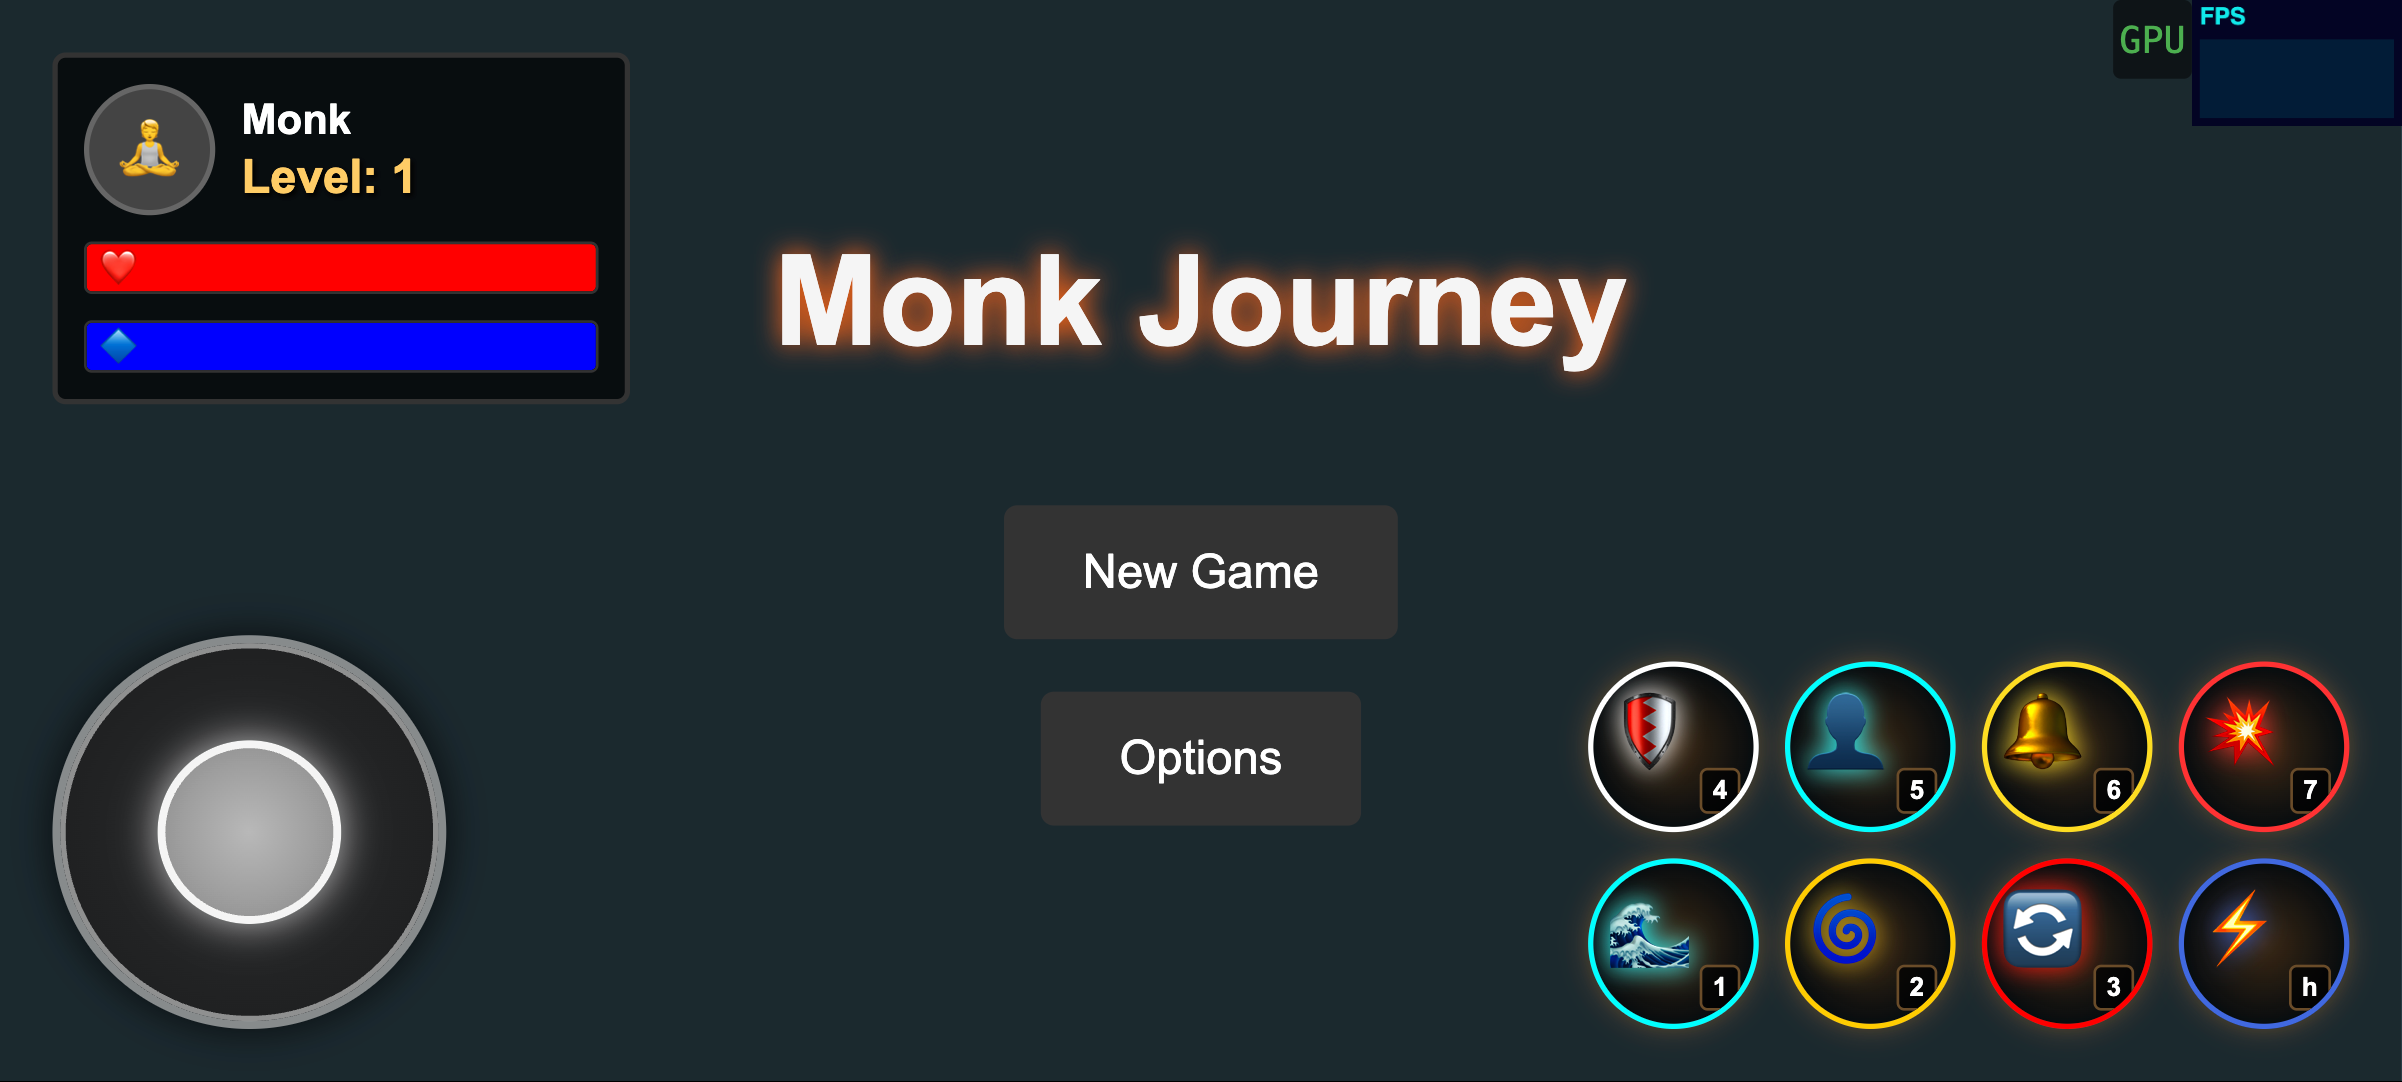
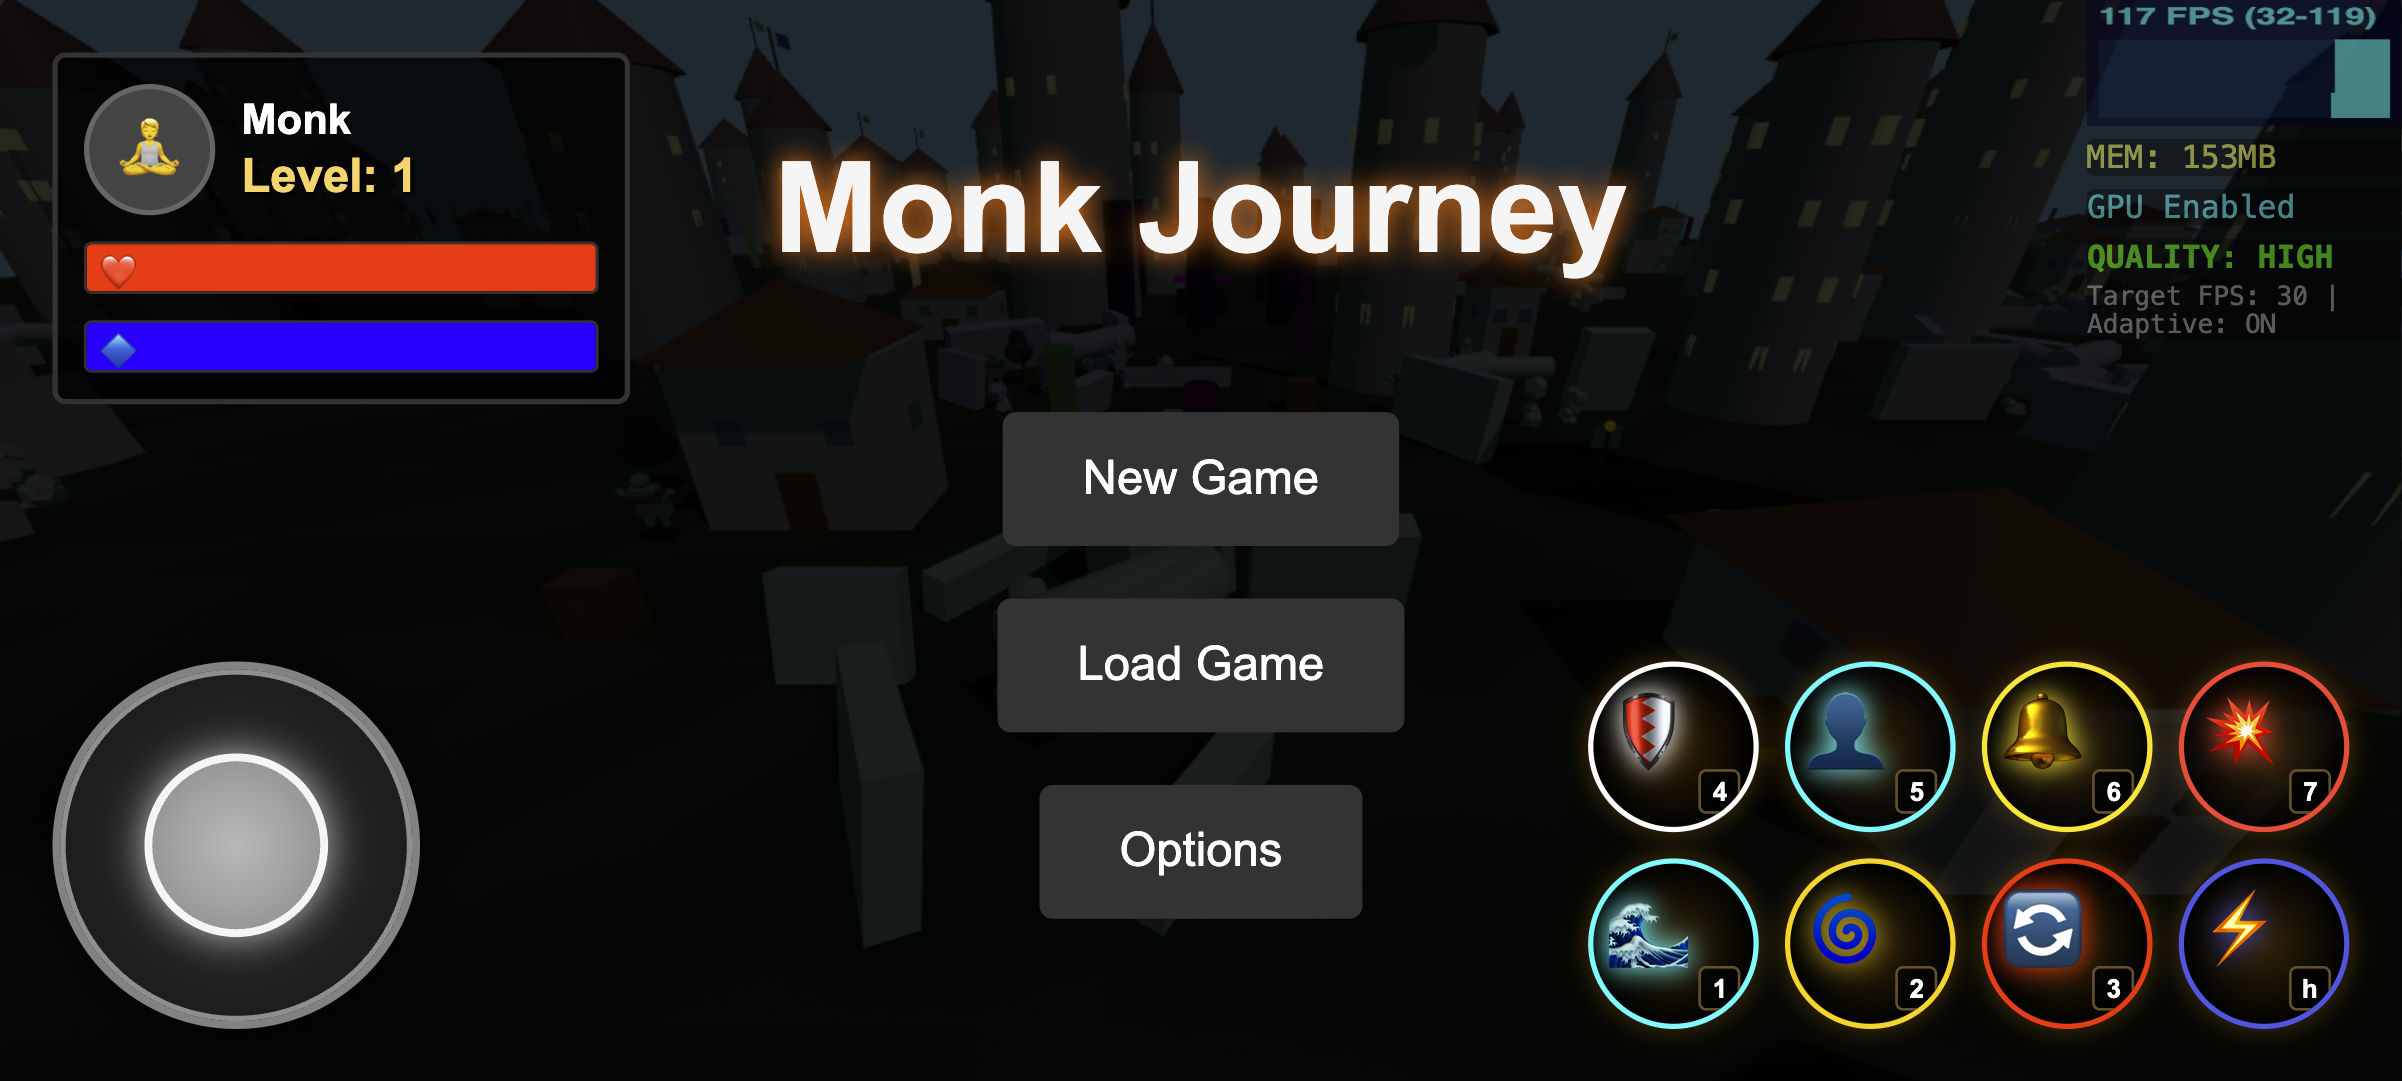
chore: auto commit 20250504-225546

diff --git a/js/core/Game.js b/js/core/Game.js
@@ -17,6 +17,7 @@ export class Game {
         this.canvas = document.getElementById('game-canvas');
         this.clock = new THREE.Clock();
         this.isRunning = false;
+        this.isPaused = true; // Add paused state flag
         this.loadingManager = new THREE.LoadingManager();
         this.debugMode = false; // Set to true to enable debug logging
         
@@ -201,6 +202,7 @@ export class Game {
         this.player.setPosition(0, 2, 0);
         
         // Start the game loop
+        this.isPaused = false; // Unpause the game
         this.isRunning = true;
         this.clock.start();
         this.animate();
@@ -212,6 +214,7 @@ export class Game {
     }
     
     pause() {
+        this.isPaused = true;
         this.isRunning = false;
     }
     
@@ -220,6 +223,13 @@ export class Game {
             this.isRunning = true;
             this.animate();
         }
+    }
+    
+    // New method to toggle pause state without stopping animation loop
+    togglePause() {
+        this.isPaused = !this.isPaused;
+        console.log(`Game ${this.isPaused ? 'paused' : 'resumed'}`);
+        return this.isPaused;
     }
     
     animate() {
@@ -235,6 +245,13 @@ export class Game {
         // Update controls (only if enabled)
         if (this.controls.enabled) {
             this.controls.update();
+        }
+        
+        // If game is paused, only render the scene but don't update game logic
+        if (this.isPaused) {
+            // Just render the scene
+            this.renderer.render(this.scene, this.camera);
+            return;
         }
         
         // Update input handler for continuous skill casting

diff --git a/js/main.js b/js/main.js
@@ -13,14 +13,14 @@ document.addEventListener('DOMContentLoaded', () => {
     const game = new Game();
     console.log("Game instance created:", game);
     
-    // Start the game
+    // Initialize the game but keep it paused
     game.init().then(() => {
         console.log("Game initialized successfully");
         
         // Hide loading screen when game is initialized
         document.getElementById('loading-screen').style.display = 'none';
         
-        // Show game menu
+        // Show game menu - game will remain paused until user clicks a button
         showGameMenu(game);
         console.log("Game menu displayed");
     }).catch(error => {

diff --git a/js/core/SaveManager.js b/js/core/SaveManager.js
@@ -15,7 +15,8 @@ export class SaveManager {
         // Start auto-save timer
         this.startAutoSave();
         
-        // Load any existing save data
+        // Just load the chunk index, but don't load the game data yet
+        // This will be done explicitly when the user clicks "Load Game"
         this.loadChunkIndex();
         
         return true;

diff --git a/progress/20240425-120000-GamePausedStateImplementation.md b/progress/20240425-120000-GamePausedStateImplementation.md
@@ -1,0 +1,26 @@
+# Game Paused State Implementation
+
+## Issue
+The game was automatically loading and starting when there was a saved game, instead of waiting for the user to click the "Load Game" button.
+
+## Solution
+Implemented a paused state in the game to ensure it doesn't start automatically when there's a saved game.
+
+### Changes Made:
+
+1. **Added Paused State to Game Class**
+   - Added `isPaused` flag to the Game constructor
+   - Modified the `start()` method to set `isPaused = false`
+   - Updated the `animate()` method to respect the paused state
+   - Added a new `togglePause()` method
+
+2. **Updated SaveManager**
+   - Modified the `init()` method to only load the chunk index, not the full game data
+   - Game data is now only loaded when the user explicitly clicks the "Load Game" button
+
+3. **Updated Main.js**
+   - Changed the initialization flow to keep the game paused until user interaction
+   - Added comments to clarify that the game remains paused until a button is clicked
+
+## Result
+The game now properly initializes in a paused state and only starts when the user explicitly clicks either the "New Game" or "Load Game" button.
